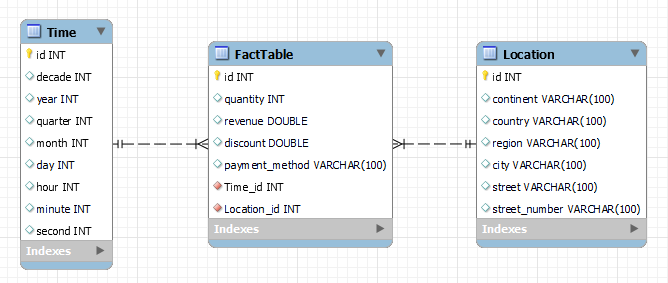
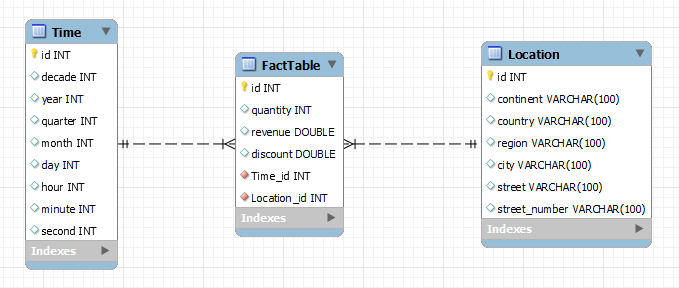
Atributi tabele dejstev

Changed region(s): [[0.0, 0.0565, 1.0, 0.9611], [0.1497, 0.6502, 0.1796, 0.6784], [0.1497, 0.3675, 0.1796, 0.3958]]

diff --git a/podrobna-navodila/dimenzijsko-modeliranje.md b/podrobna-navodila/dimenzijsko-modeliranje.md
@@ -30,7 +30,7 @@ Na spodnji sliki je prikazan primer dimenzijske tabele "Lokacija", ki vsebuje at
 ![Dimenzija "Lokacija"](../static/dimension-location.png)  
 
 ### Tabela dejstev
-Na spodnji sliki je prikazan primer tabele dejstev (za beleženje prodaj v trgovini), ki vsebuje atribute količina, cena, popust in način plačila. Zaenkrat še ne vsebuje tujih ključev na dimenzijske tabele.  
+Na spodnji sliki je prikazan primer tabele dejstev (za beleženje prodaj v trgovini), ki vsebuje atribute količina, cena in popust. Zaenkrat še ne vsebuje tujih ključev na dimenzijske tabele.  
 ![Tabela dejstev](../static/fact-table.png)  
 
 ### Končen dimenzijski model
